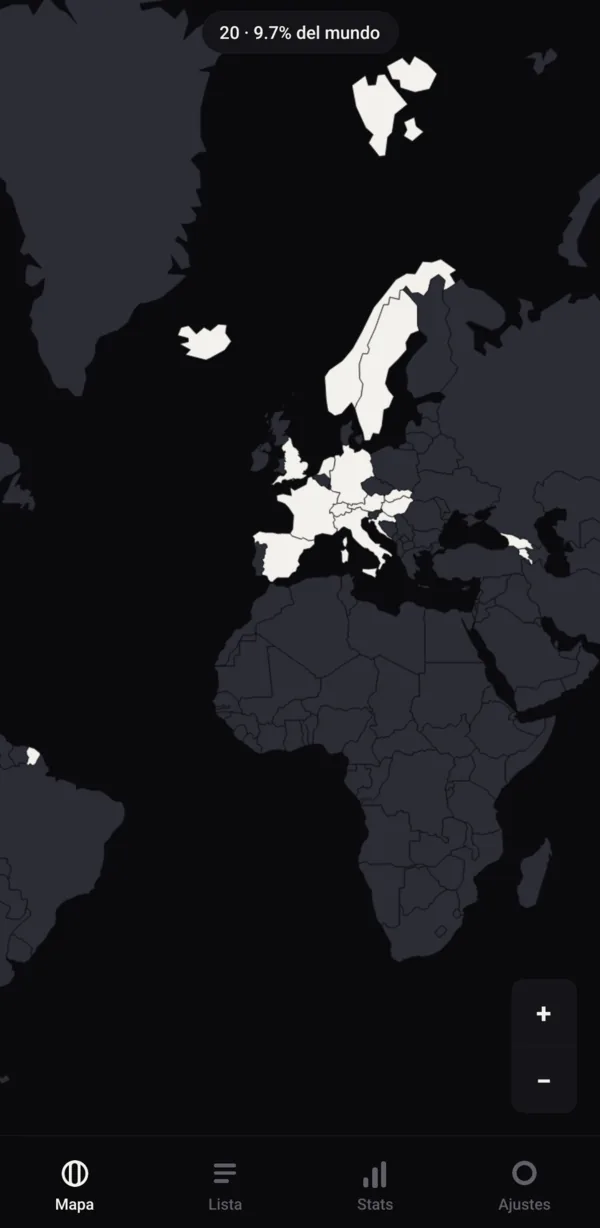
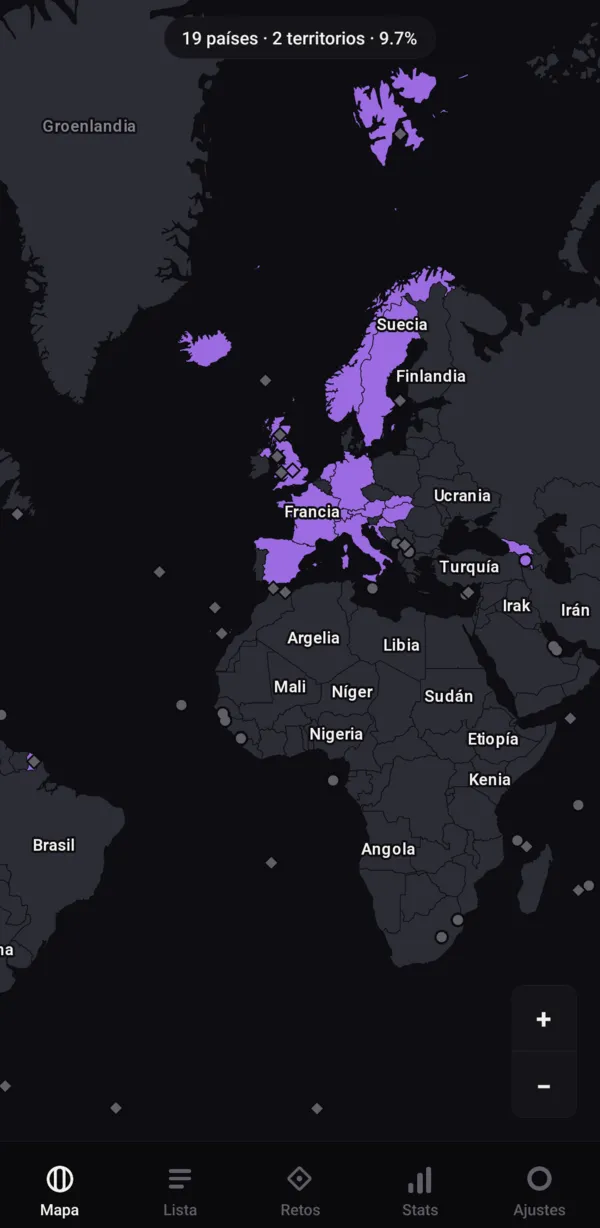
chore: release 1.1.0 with updated screenshots
- Version 1.1.0 (versionCode 2)
- build-apk.sh copies the release APK to dist/Ludok-Been-<version>[-arm64].apk, like Ludok Time
- README screenshots: new map with names and dots, the Challenges tab, and Stats with adventure level

diff --git a/README.md b/README.md
@@ -23,11 +23,12 @@ Your data lives on your phone. No accounts. No servers. No tracking.
 ---
 
 <p align="center">
-<img src="docs/screenshots/map.webp" alt="World map with visited countries" width="260">&nbsp;
-<img src="docs/screenshots/stats.webp" alt="Stats: % of the world, transport and continents" width="260">
+<img src="docs/screenshots/map.webp" alt="World map with visited countries in purple, country names and dots for tiny countries and territories" width="260">&nbsp;
+<img src="docs/screenshots/retos.webp" alt="Challenges: achievements as passport stamps, unlocked and in progress" width="260">&nbsp;
+<img src="docs/screenshots/stats.webp" alt="Stats: % of the world, territories, adventure level and rarest places" width="260">
 </p>
 
-<p align="center"><sub>Map · Stats</sub></p>
+<p align="center"><sub>Map · Challenges · Stats</sub></p>
 
 ## Table of Contents
 
